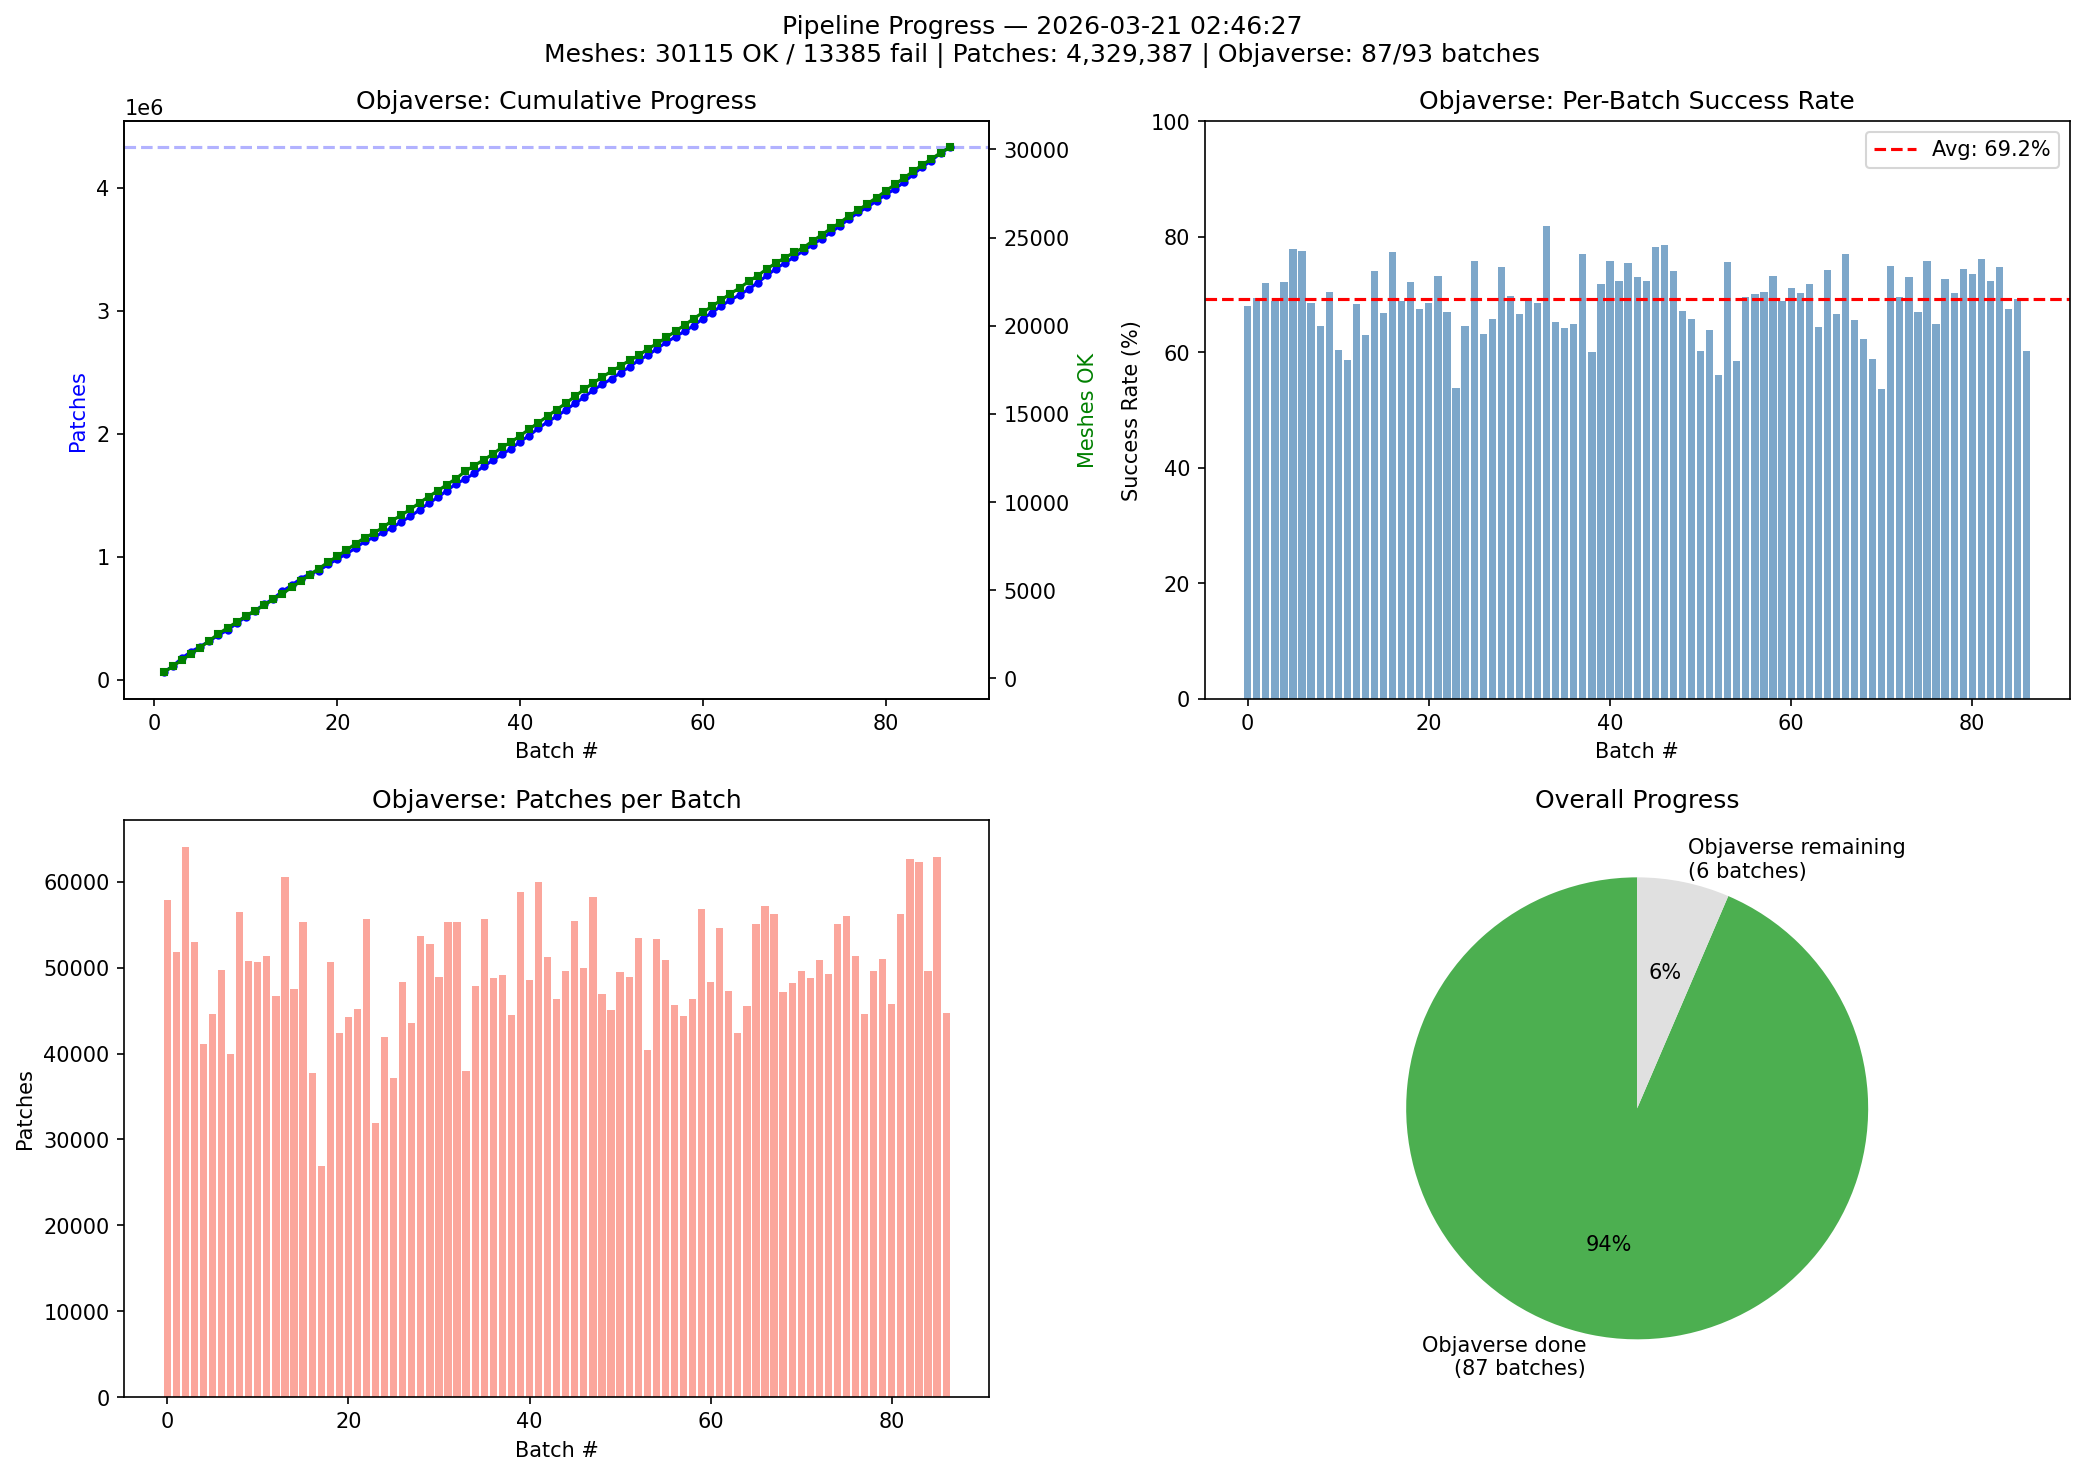
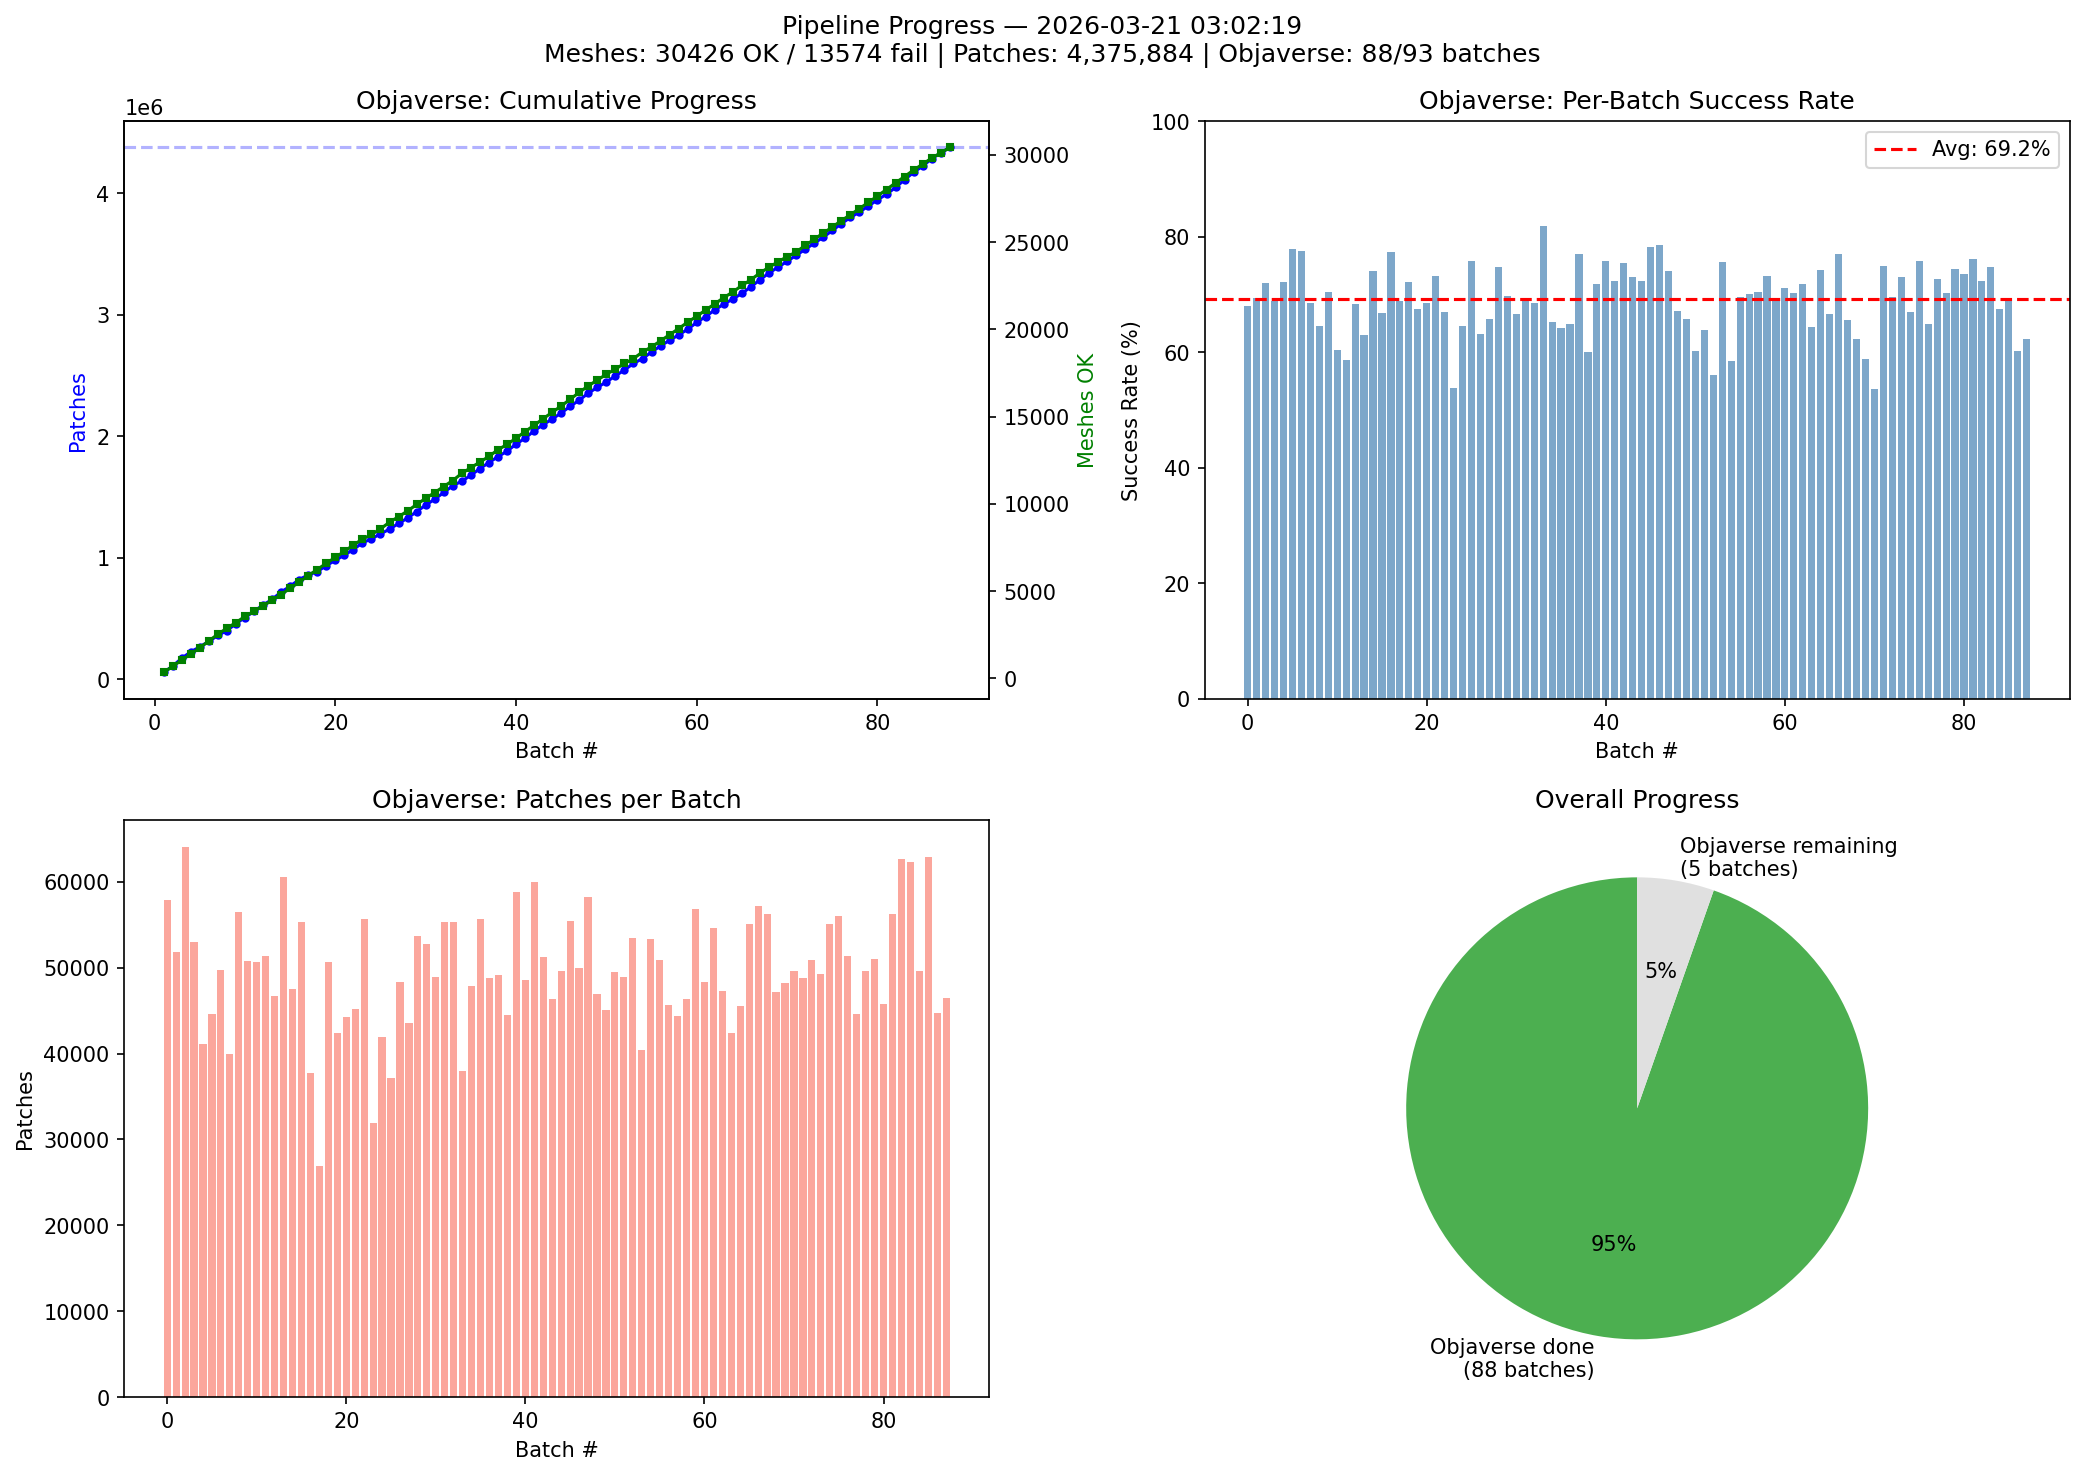
chore: update pipeline monitoring (batch_088 completed)
- Objaverse: 88/93 batches, 30426 OK / 13574 fail
- Patches: 4,375,884

diff --git a/results/dataset-pipeline/REPORT.md b/results/dataset-pipeline/REPORT.md
@@ -1,16 +1,16 @@
 # Dataset Pipeline Progress Report
 
-**Generated:** 2026-03-21 02:45:23
+**Generated:** 2026-03-21 03:02:18
 
 ## Overall
-- Total meshes processed: 30115 OK / 13385 fail
-- Total patches: 4,329,387
+- Total meshes processed: 30426 OK / 13574 fail
+- Total patches: 4,375,884
 
 ## Objaverse-LVIS (Phase 1)
-- Batches: 87 / 93 completed
-- Meshes: 30115 OK / 13385 fail
+- Batches: 88 / 93 completed
+- Meshes: 30426 OK / 13574 fail
 - Success rate: 69.2%
-- Patches: 4,329,387
+- Patches: 4,375,884
 - Avg patches/mesh: 143.8
 
 ## ShapeNet (Phase 2)
